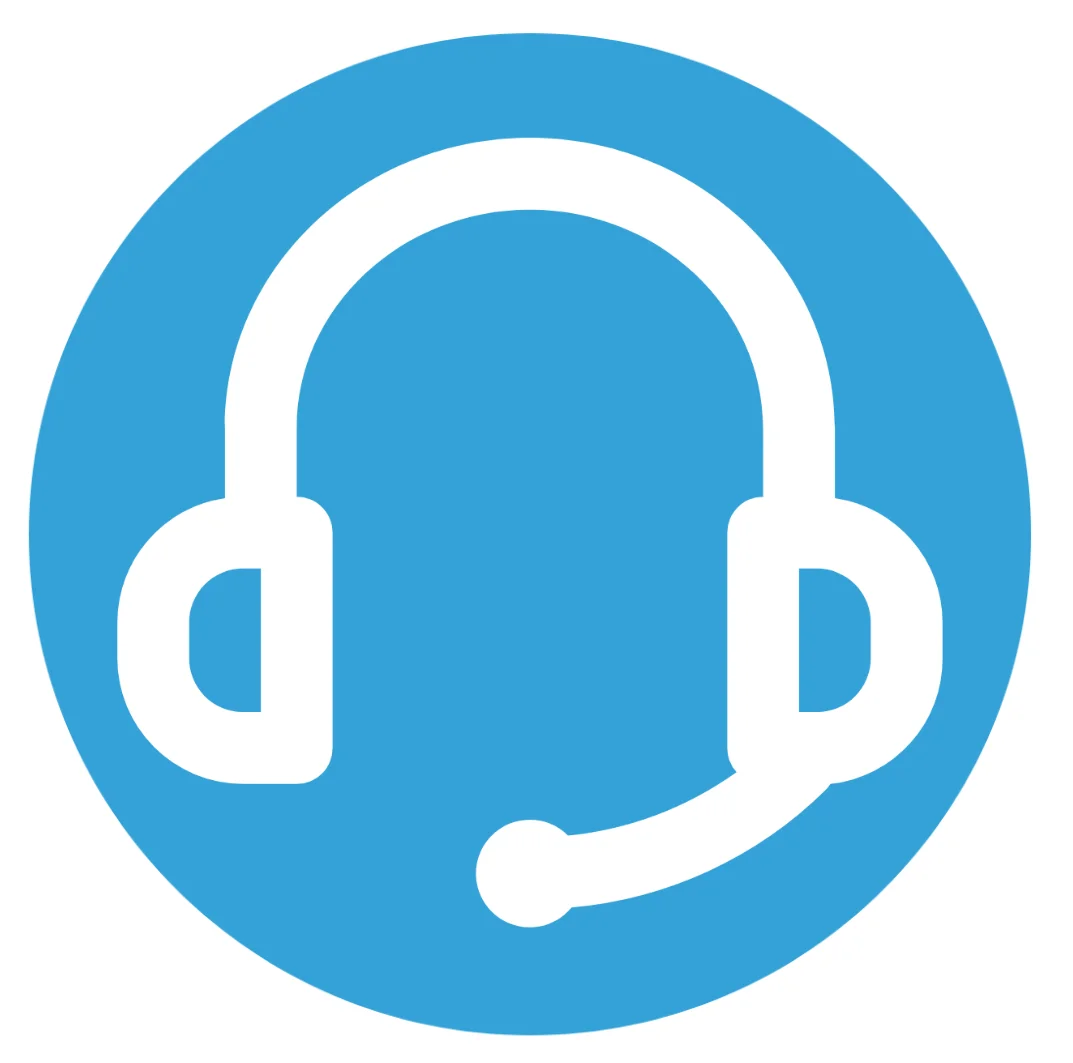
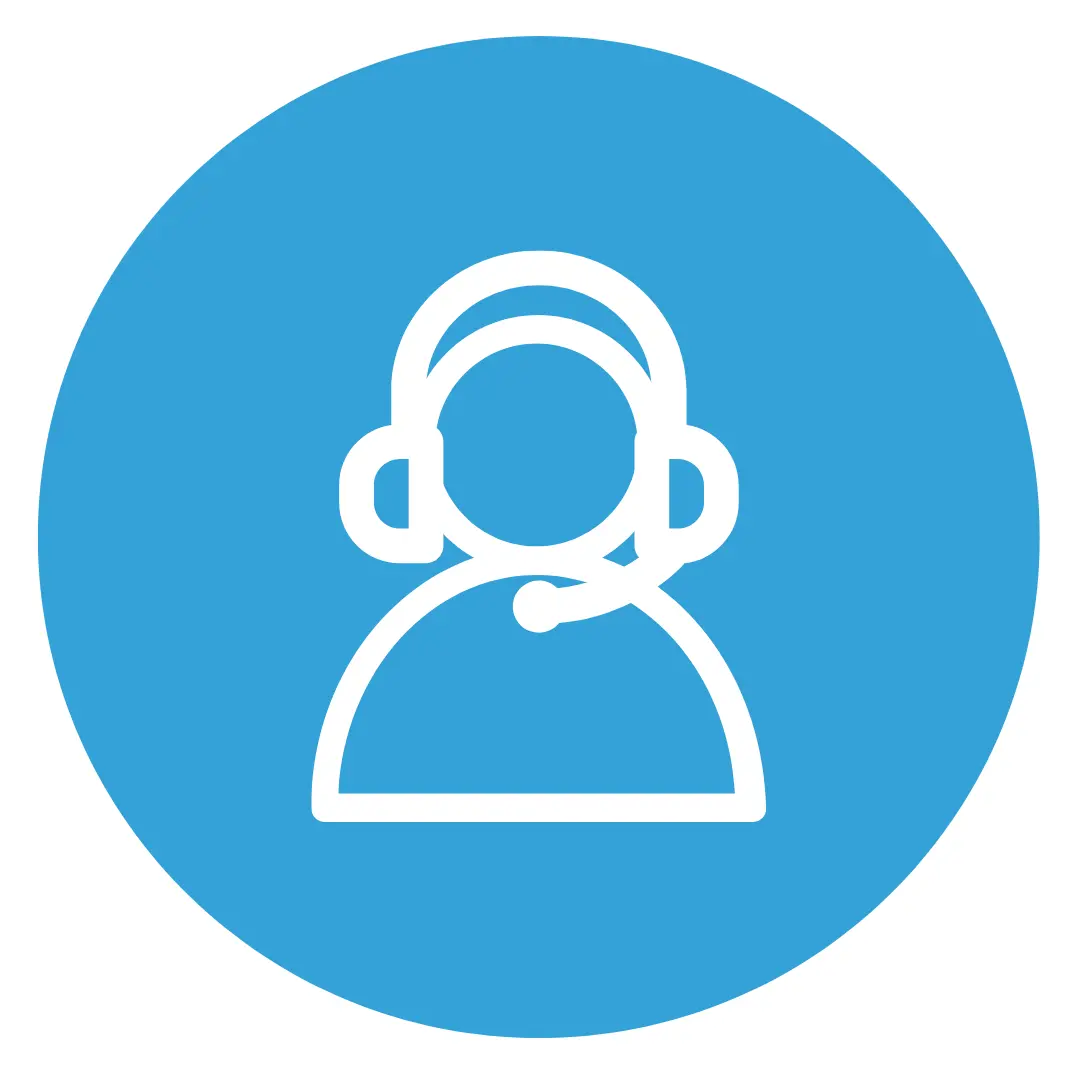
Update site views, styles, and images

diff --git a/public/css/hardware.css b/public/css/hardware.css
@@ -165,3 +165,33 @@
   opacity: 1;
   transform: translateX(0);
 }
+
+.checklist-list {
+  list-style: none;
+  margin: 1.2rem 0 0;
+  padding: 0;
+  display: flex;
+  flex-direction: column;
+  gap: 0.9rem;
+}
+.checklist-list li {
+  display: flex;
+  align-items: flex-start;
+  gap: 0.7em;
+  font-size: 0.98rem;
+  color: var(--ict-grey);
+}
+.checklist-list svg {
+  flex: none;
+  margin-top: 0.2em;
+  width: 20px;
+  height: 20px;
+  border-radius: 50%;
+  background: var(--ict-blue-tint);
+  color: var(--ict-blue);
+  padding: 4px;
+}
+
+.checklist-list strong {
+  margin-right: -0.4em;
+}
